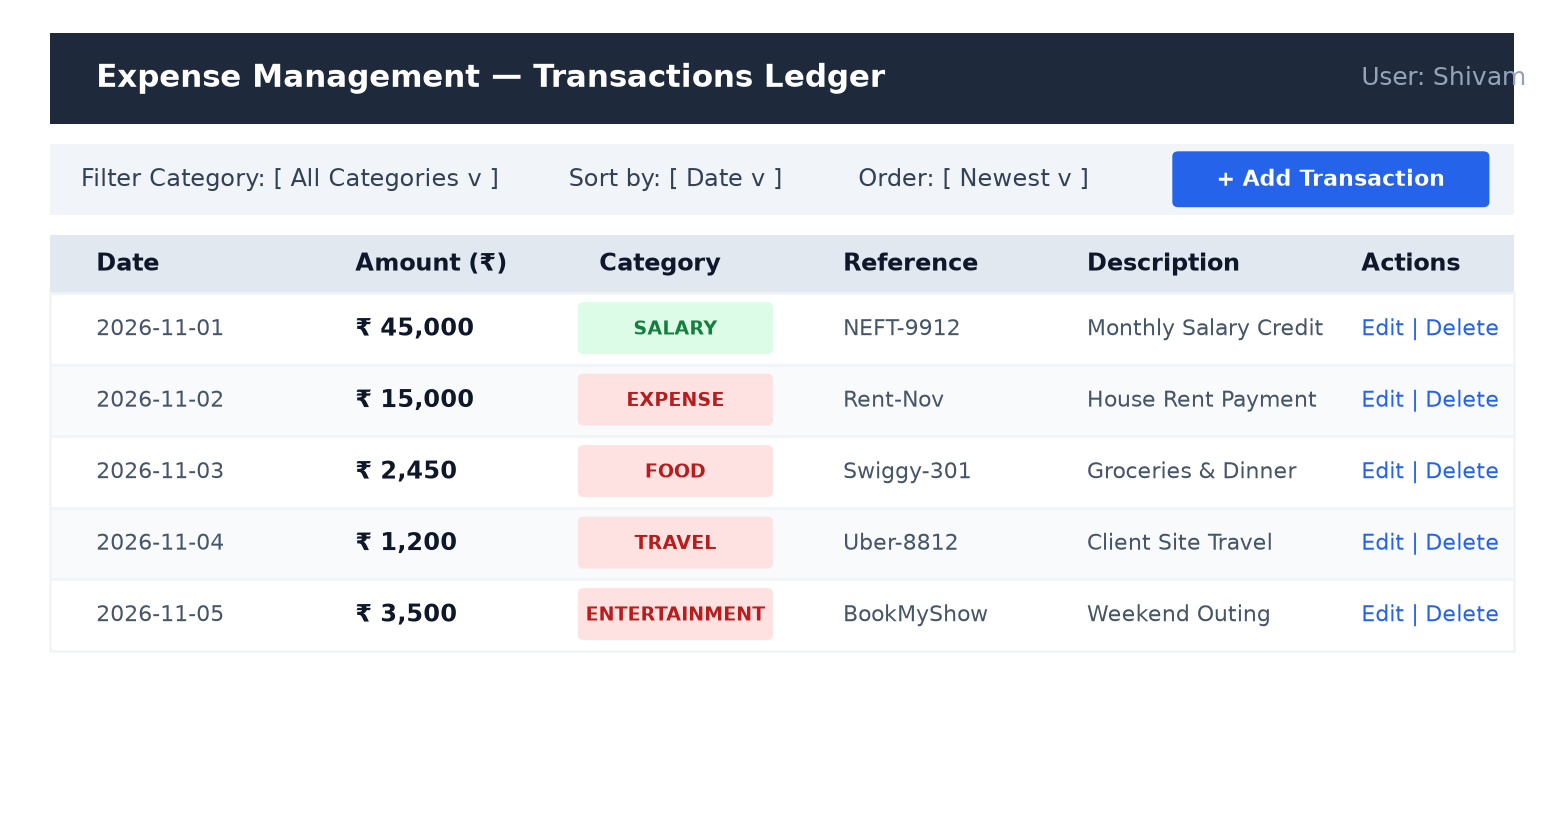
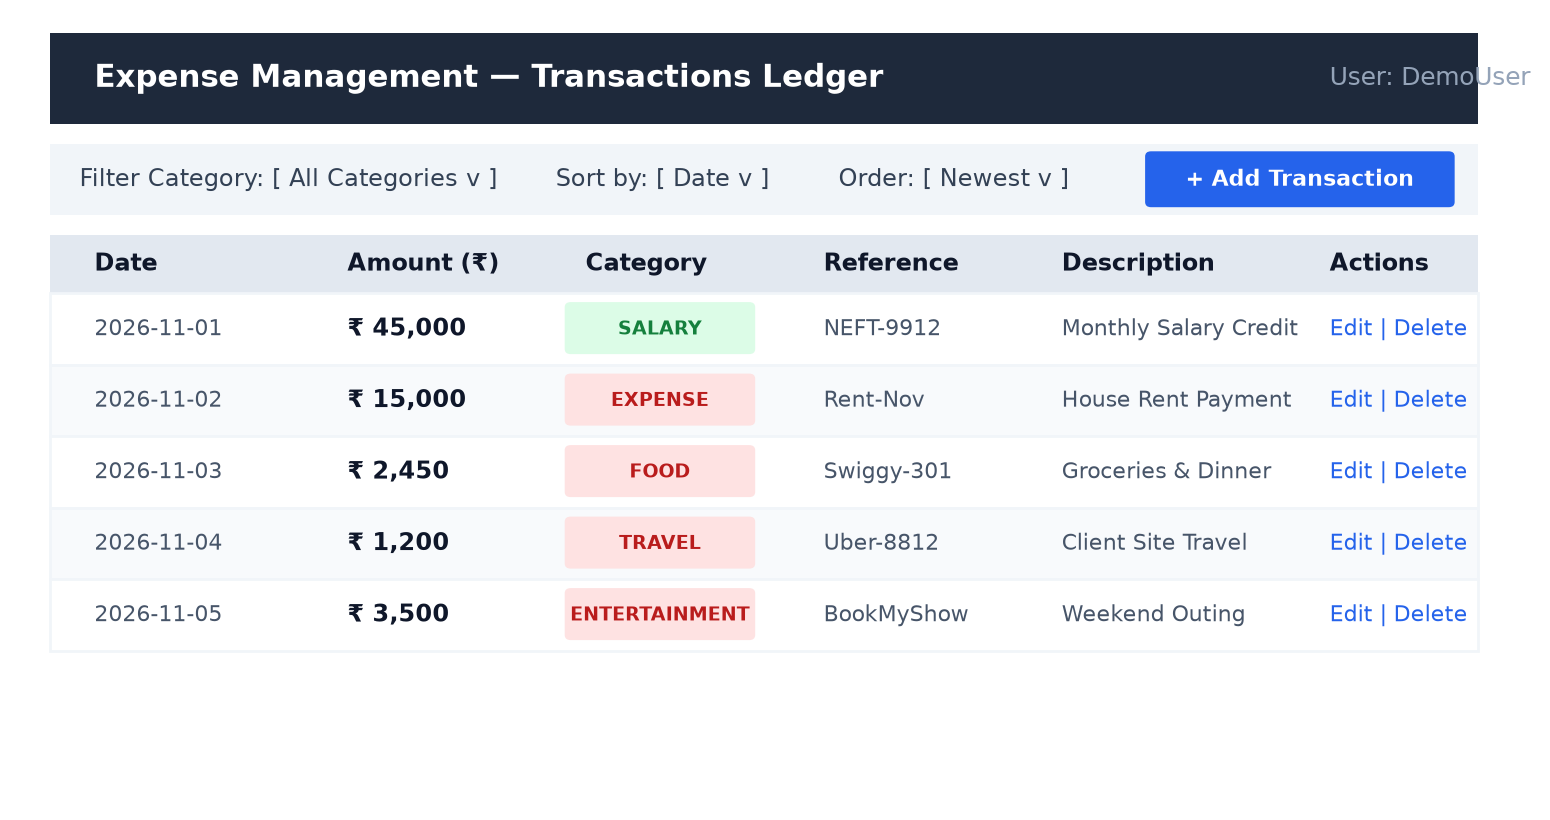
docs: remove personal name, roll number, and credentials from all files and assets

diff --git a/docs/Expense_Management_Presentation.html b/docs/Expense_Management_Presentation.html
@@ -304,7 +304,7 @@
   </div>
   <div class="slide-footer">
     <span>Expense Management: Full-Stack MERN Personal Finance &amp; Analytics System</span>
-    <span>Shivam Keshari | Roll No. 2302840100210</span>
+    <span>Full-Stack MERN Architecture</span>
   </div>
 </div>
 
@@ -332,7 +332,7 @@
   </div>
   <div class="slide-footer">
     <span>Expense Management: Full-Stack MERN Personal Finance &amp; Analytics System</span>
-    <span>Shivam Keshari | Roll No. 2302840100210</span>
+    <span>Full-Stack MERN Architecture</span>
   </div>
 </div>
 
@@ -368,7 +368,7 @@
   </div>
   <div class="slide-footer">
     <span>Expense Management: Full-Stack MERN Personal Finance &amp; Analytics System</span>
-    <span>Shivam Keshari | Roll No. 2302840100210</span>
+    <span>Full-Stack MERN Architecture</span>
   </div>
 </div>
 
@@ -420,7 +420,7 @@
   </div>
   <div class="slide-footer">
     <span>Expense Management: Full-Stack MERN Personal Finance &amp; Analytics System</span>
-    <span>Shivam Keshari | Roll No. 2302840100210</span>
+    <span>Full-Stack MERN Architecture</span>
   </div>
 </div>
 
@@ -563,7 +563,7 @@
   </div>
   <div class="slide-footer">
     <span>Expense Management: Full-Stack MERN Personal Finance &amp; Analytics System</span>
-    <span>Shivam Keshari | Roll No. 2302840100210</span>
+    <span>Full-Stack MERN Architecture</span>
   </div>
 </div>
 
@@ -618,7 +618,7 @@
   </div>
   <div class="slide-footer">
     <span>Expense Management: Full-Stack MERN Personal Finance &amp; Analytics System</span>
-    <span>Shivam Keshari | Roll No. 2302840100210</span>
+    <span>Full-Stack MERN Architecture</span>
   </div>
 </div>
 
@@ -654,7 +654,7 @@
   </div>
   <div class="slide-footer">
     <span>Expense Management: Full-Stack MERN Personal Finance &amp; Analytics System</span>
-    <span>Shivam Keshari | Roll No. 2302840100210</span>
+    <span>Full-Stack MERN Architecture</span>
   </div>
 </div>
 
@@ -690,7 +690,7 @@
   </div>
   <div class="slide-footer">
     <span>Expense Management: Full-Stack MERN Personal Finance &amp; Analytics System</span>
-    <span>Shivam Keshari | Roll No. 2302840100210</span>
+    <span>Full-Stack MERN Architecture</span>
   </div>
 </div>
 
@@ -713,7 +713,7 @@
   </div>
   <div class="slide-footer">
     <span>Expense Management: Full-Stack MERN Personal Finance &amp; Analytics System</span>
-    <span>Shivam Keshari | Roll No. 2302840100210</span>
+    <span>Full-Stack MERN Architecture</span>
   </div>
 </div>
 
@@ -725,7 +725,7 @@
       <div class="thank-you-line"></div>
       <div class="thank-you-subtitle">Questions &amp; Discussion</div>
       <div class="author-meta">
-        <strong>Shivam Keshari</strong> | Roll No. 2302840100210<br>
+        <strong>Expense Management System</strong> | Production Release<br>
         B.Tech Computer Science &amp; Engineering<br>
         GitHub: https://github.com/S1h2i3v4a/Expense_Management
       </div>
@@ -733,7 +733,7 @@
   </div>
   <div class="slide-footer">
     <span>Expense Management: Full-Stack MERN Personal Finance &amp; Analytics System</span>
-    <span>Shivam Keshari | Roll No. 2302840100210</span>
+    <span>Full-Stack MERN Architecture</span>
   </div>
 </div>
 

diff --git a/docs/generate_images.py b/docs/generate_images.py
@@ -1,3 +1,6 @@
+import os
+IMG_DIR = os.path.join(os.path.dirname(os.path.abspath(__file__)), 'images')
+os.makedirs(IMG_DIR, exist_ok=True)
 import matplotlib.pyplot as plt
 import matplotlib.patches as patches
 import numpy as np
@@ -119,7 +122,7 @@ ax.annotate("", xy=(11.75, 1.15), xytext=(11.4, 1.15), arrowprops=dict(arrowstyl
 ax.text(11.9, 1.15, "Data Flow", fontsize=8, color='#475569', va='center')
 
 plt.tight_layout()
-plt.savefig('docs/images/dfd_diagram.png', dpi=200, bbox_inches='tight')
+plt.savefig(os.path.join(IMG_DIR, 'dfd_diagram.png'), dpi=200, bbox_inches='tight')
 plt.close()
 print("Created docs/images/dfd_diagram.png")
 
@@ -145,7 +148,7 @@ ax.set_ylim(0, 52000)
 ax.spines['top'].set_visible(False)
 ax.spines['right'].set_visible(False)
 plt.tight_layout()
-plt.savefig('docs/images/chart_highlight.png', dpi=200, bbox_inches='tight')
+plt.savefig(os.path.join(IMG_DIR, 'chart_highlight.png'), dpi=200, bbox_inches='tight')
 plt.close()
 print("Created docs/images/chart_highlight.png")
 
@@ -206,7 +209,7 @@ ax.text(4.0, 0.15, "Fig. 4.1: Flowchart of the Expense Management System",
         fontsize=10.5, fontweight='bold', color='#0f172a', ha='center')
 
 plt.tight_layout()
-plt.savefig('docs/images/flowchart.png', dpi=200, bbox_inches='tight')
+plt.savefig(os.path.join(IMG_DIR, 'flowchart.png'), dpi=200, bbox_inches='tight')
 plt.close()
 print("Created docs/images/flowchart.png")
 
@@ -222,7 +225,7 @@ ax.axis('off')
 # Header bar
 ax.add_patch(patches.Rectangle((0.2, 5.2), 9.6, 0.7, facecolor='#1e293b'))
 ax.text(0.5, 5.55, "Expense Management — Transactions Ledger", color='white', fontsize=11, fontweight='bold', va='center')
-ax.text(8.8, 5.55, "User: Shivam", color='#94a3b8', fontsize=9, va='center')
+ax.text(8.8, 5.55, "User: DemoUser", color='#94a3b8', fontsize=9, va='center')
 
 # Controls row
 ax.add_patch(patches.Rectangle((0.2, 4.5), 9.6, 0.55, facecolor='#f1f5f9'))
@@ -265,7 +268,7 @@ for idx, r in enumerate(rows):
     ax.text(8.8, y + 0.27, r[5], fontsize=8, color='#2563eb', va='center')
 
 plt.tight_layout()
-plt.savefig('docs/images/ui_fig1.png', dpi=200, bbox_inches='tight')
+plt.savefig(os.path.join(IMG_DIR, 'ui_fig1.png'), dpi=200, bbox_inches='tight')
 plt.close()
 print("Created docs/images/ui_fig1.png")
 
@@ -313,6 +316,6 @@ for name, pct, clr, cy in cats:
     ax.text(7.4, cy - 0.12, "Monthly Budget", fontsize=7, color='#64748b')
 
 plt.tight_layout()
-plt.savefig('docs/images/ui_fig2.png', dpi=200, bbox_inches='tight')
+plt.savefig(os.path.join(IMG_DIR, 'ui_fig2.png'), dpi=200, bbox_inches='tight')
 plt.close()
 print("Created docs/images/ui_fig2.png")

diff --git a/docs/generate_presentation_pdf.py b/docs/generate_presentation_pdf.py
@@ -13,7 +13,11 @@ os.makedirs('docs', exist_ok=True)
 # =========================================================================
 # PART 1: BUILD PRESENTATION PDF (960 x 540 pt, 10 slides)
 # =========================================================================
-def build_presentation(filename="docs/Expense_Management_Presentation.pdf"):
+SCRIPT_DIR = os.path.dirname(os.path.abspath(__file__))
+
+def build_presentation(filename=None):
+    if filename is None:
+        filename = os.path.join(SCRIPT_DIR, "Expense_Management_Presentation.pdf")
     PAGE_W, PAGE_H = 960, 540
     c = canvas.Canvas(filename, pagesize=(PAGE_W, PAGE_H))
     
@@ -33,7 +37,7 @@ def build_presentation(filename="docs/Expense_Management_Presentation.pdf"):
         c.setFont("Helvetica", 9)
         c.setFillColor(colors.HexColor('#64748b'))
         c.drawString(50, 24, "Expense Management: Full-Stack MERN Personal Finance & Analytics System")
-        c.drawRightString(910, 24, "Shivam Keshari | Roll No. 2302840100210")
+        c.drawRightString(910, 24, "Full-Stack MERN Architecture")
 
     # -------------------------------------------------------------
     # SLIDE 1: Table of Content
@@ -383,13 +387,13 @@ def build_presentation(filename="docs/Expense_Management_Presentation.pdf"):
     
     c.setFont("Helvetica", 12)
     c.setFillColor(colors.HexColor('#64748b'))
-    c.drawCentredString(PAGE_W / 2, 190, "Shivam Keshari | Roll No. 2302840100210 | B.Tech CSE")
+    c.drawCentredString(PAGE_W / 2, 190, "Full-Stack Web Development | Production Release")
     c.drawCentredString(PAGE_W / 2, 170, "GitHub: https://github.com/S1h2i3v4a/Expense_Management")
     
     # Footer
     c.setFont("Helvetica", 9)
     c.drawString(50, 24, "Expense Management: Full-Stack MERN Personal Finance & Analytics System")
-    c.drawRightString(910, 24, "Shivam Keshari | Roll No. 2302840100210")
+    c.drawRightString(910, 24, "Full-Stack MERN Architecture")
     
     c.showPage()
     c.save()

diff --git a/docs/generate_report_pdf.py b/docs/generate_report_pdf.py
@@ -34,7 +34,11 @@ class NumberedCanvas(canvas.Canvas):
             self.setFillColor(colors.HexColor('#1f2937'))
             self.drawCentredString(A4[0] / 2.0, 36, str(report_page_num))
 
-def build_project_report(filename="c:/Users/Shivam Keshari/OneDrive/Desktop/Expense_Management/docs/Expense_Management_Project_Report.pdf"):
+SCRIPT_DIR = os.path.dirname(os.path.abspath(__file__))
+
+def build_project_report(filename=None):
+    if filename is None:
+        filename = os.path.join(SCRIPT_DIR, "Expense_Management_Project_Report.pdf")
     PAGE_W, PAGE_H = A4
     MARGIN = 50
 

diff --git a/README.md b/README.md
@@ -159,10 +159,10 @@ The application will launch at `http://localhost:3000`.
 
 ---
 
-## 👤 Author
+## 👤 Project Information
 
-- **Shivam Keshari**
-- **Roll No:** 2302840100210
-- **Degree:** B.Tech Computer Science & Engineering
-- **GitHub:** [@S1h2i3v4a](https://github.com/S1h2i3v4a)
+- **Project:** Expense Management System
+- **Stack:** MongoDB, Express.js, React.js, Node.js (MERN)
+- **Architecture:** Decoupled Client-Server with RESTful API
+- **Deployment:** Vercel (Frontend) + Render (Backend)
 - **Repository:** [Expense_Management](https://github.com/S1h2i3v4a/Expense_Management)
